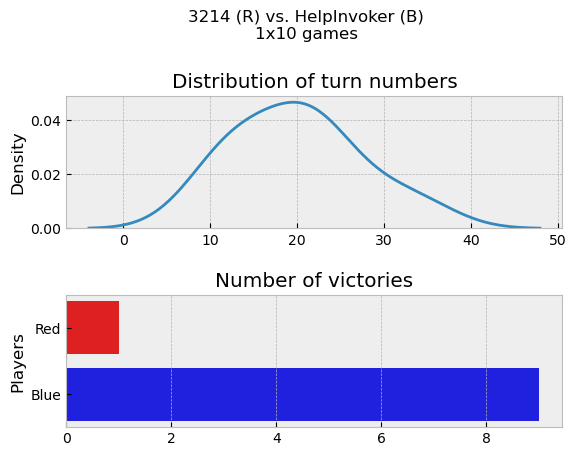
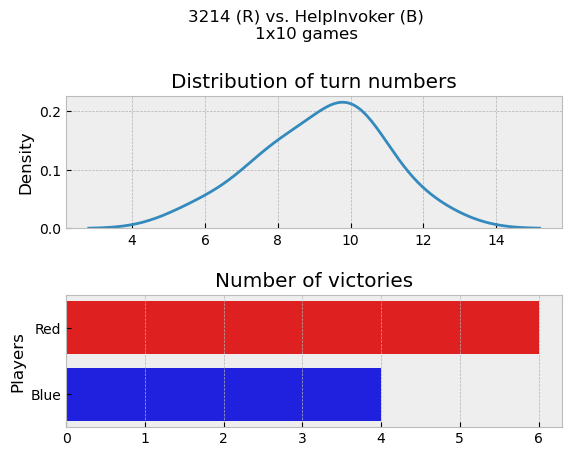
Finally working

diff --git a/WebAPI/api/evaluate_models.py b/WebAPI/api/evaluate_models.py
@@ -32,7 +32,7 @@ def run_tests(white='Minmaxer', blue='3214', gpl=10, loops=5, depth=2):
             s = Santorini(True)
             players = s.make_players(mode)
             print(players)
-            while not s.isDone():
+            while not s.isDone() and not s.amDead():
                 turn = s.turn
                 print(turn)
                 if turn%2==0:inverse=True
@@ -72,13 +72,13 @@ def run_tests(white='Minmaxer', blue='3214', gpl=10, loops=5, depth=2):
 
 
 def ux_for_tests(agent, depth):
-    red = '3214' # input('Please input desired agent to play as white: ')
+    red = agent # input('Please input desired agent to play as white: ')
     if red not in AGENTS:
         print('Desired agent not available. Reverting to random.')
         red = 'Random'
     else:
         print(f'Selected {red}.')
-    blue =  agent # input('Please input desired agent to play as blue: ')
+    blue = agent # input('Please input desired agent to play as blue: ')
     if blue not in AGENTS:
         print('Desired agent not available. Reverting to random.')
         blue = 'Random'
@@ -92,7 +92,8 @@ if __name__ == "__main__":
     DEPTH = 2
     tt = TicToc()
     tt.tic()
-    agents = ['SimpleInvoker', 'HelpInvoker', 'Highriser2', 'RooflessCuddler']
+    #agents = ['SimpleInvoker', 'HelpInvoker', 'Highriser2', 'RooflessCuddler']
+    agents = ['HelpInvoker']
     for agent in agents:
         ux_for_tests(agent, DEPTH)
     tt.toc()

diff --git a/WebAPI/api/util/minimax.py b/WebAPI/api/util/minimax.py
@@ -23,12 +23,13 @@ def get_ix():
     global ix
     return ix
 
-def MinMax(state, depth, start_depth, alpha, beta):
+def MinMax(state, depth, alpha, beta):
     #print('Inverse!')
     #if json.dumps(state_to_dict(state['State'])) in MEMOIZATION.keys():
     #    return MEMOIZATION[json.dumps(state_to_dict(state['State']))]
     if not state['State'].inverse: lib=__MAXMINDICT__
     else: lib=__MAXMINDICT__2
+    #lib = __MAXMINDICT__
     player = state['State'].player
     sign = lib[player]
     goal = BIG_NUMBER * sign
@@ -48,7 +49,7 @@ def MinMax(state, depth, start_depth, alpha, beta):
     # print(f'make_children executed in: {round(time1 - time0, 2)}s')
 
     for child in state['State'].children:
-        _, observed_future = MinMax(child, depth - 1, start_depth, alpha, beta)
+        _, observed_future = MinMax(child, depth - 1, alpha, beta)
         if observed_future == None:continue
         observed_value = observed_future['State'].value  # Extract the value, returned from the future state
         if abs(goal - observed_value) < abs(

diff --git a/WebAPI/api/util/Santorini.py b/WebAPI/api/util/Santorini.py
@@ -7,7 +7,7 @@ import copy
 from sys import maxsize
 warnings.simplefilter("always")
 #The logic for the minimax algorithm is in a seperate file.
-from .minimax import MinMax, __MAXMINDICT__, BIG_NUMBER, emptyMemoization, get_ix
+from .minimax import MinMax, __MAXMINDICT__, BIG_NUMBER, emptyMemoization, get_ix, __MAXMINDICT__2
 from .minmaxer_names import ALL_MINMAXERS
 
 """
@@ -630,7 +630,7 @@ class Santorini():
 
         time0 = time.time()
         emptyMemoization()
-        future_val, best_state = MinMax({'State': self, 'Move' : ('Start', None), 'Build' : None}, depth, start_depth=depth, alpha=-maxsize, beta=maxsize)
+        future_val, best_state = MinMax({'State': self, 'Move' : ('Start', None), 'Build' : None}, depth, alpha=-maxsize, beta=maxsize)
         time1 = time.time()
         print(f'MinMax iter executed in: {round(time1 - time0, 2)}s')
         if best_state is not None:

diff --git a/WebAPI/api/util/Minmaxers/HelpInvoker.py b/WebAPI/api/util/Minmaxers/HelpInvoker.py
@@ -2,7 +2,7 @@ import sys
 import os
 
 
-from ..Santorini import Santorini, BIG_NUMBER, __MAXMINDICT__
+from ..Santorini import Santorini, BIG_NUMBER, __MAXMINDICT__, __MAXMINDICT__2
 from .util import easy_heuristics as heur
 import warnings
 
@@ -16,8 +16,10 @@ def get_help(state):
     by buildings that are as high as possible, while the oponnent is as low as possible.
 
     """
-
-    winning_state = BIG_NUMBER * __MAXMINDICT__[state.player]
+    if not state.inverse:
+        lib = __MAXMINDICT__
+    else: lib = __MAXMINDICT__2
+    winning_state = BIG_NUMBER * lib[state.player]
     if state.isDone():
         return winning_state
     val = 0
